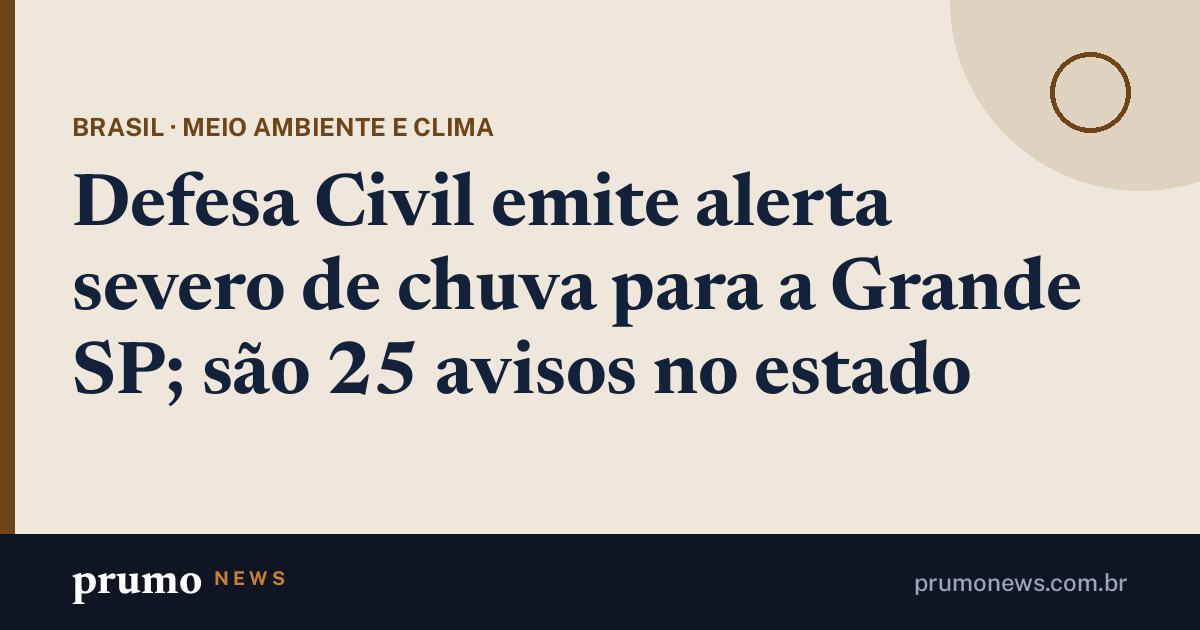
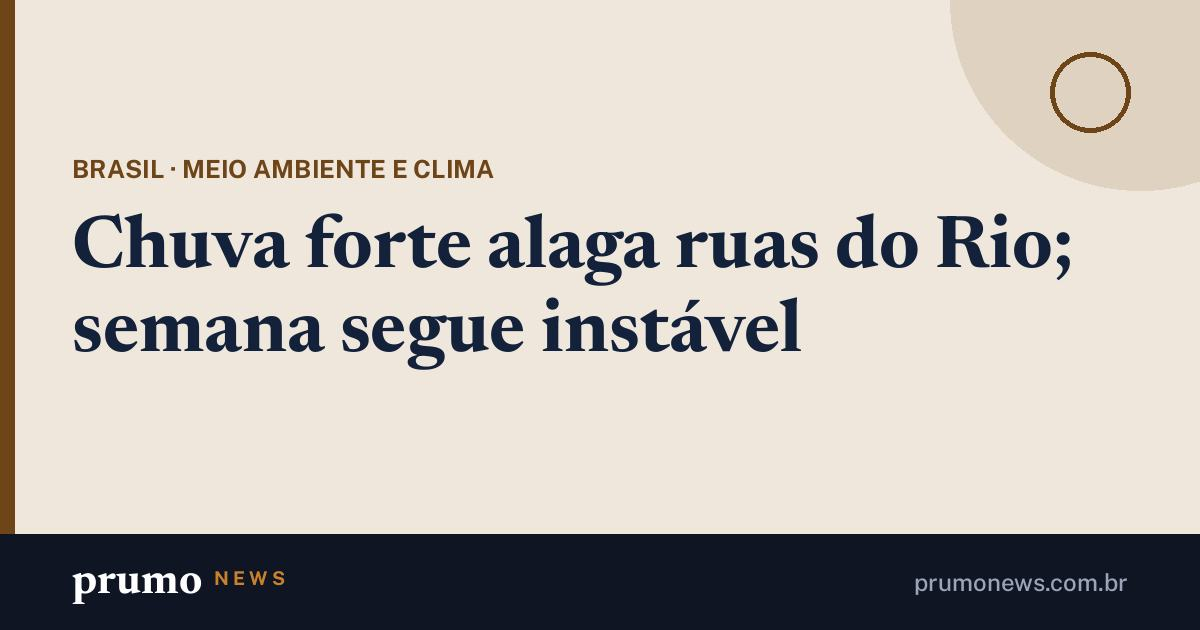
Páginas de compartilhamento 23/11 07h04

Changed region(s): [[0.0617, 0.181, 0.8942, 0.6333]]

diff --git a/m/bolsonaro-hospital-dores-abdominais.html b/m/bolsonaro-hospital-dores-abdominais.html
@@ -3,16 +3,16 @@
 <head>
 <meta charset="utf-8">
 <meta name="viewport" content="width=device-width, initial-scale=1">
-<title>Bolsonaro segue na UTI com quadro estável e sem previsão de alta · Prumo News</title>
-<meta name="description" content="No terceiro dia no Hospital DF Star, em Brasília, o ex-presidente está clinicamente estável, segundo o boletim médico de domingo (22).">
-<link rel="canonical" href="https://prumonews.com.br/m/bolsonaro-segue-na-uti-com-quadro-estavel-e-sem-previsao-de-alta.html">
+<title>Bolsonaro cumpre o quarto dia na UTI, estável e sem previsão de alta · Prumo News</title>
+<meta name="description" content="Internado desde sexta (20) com abdômen agudo obstrutivo, o ex-presidente faz exames diários e a equipe médica o mantém em observação.">
+<link rel="canonical" href="https://prumonews.com.br/m/bolsonaro-cumpre-o-quarto-dia-na-uti-estavel-e-sem-previsao-de-alta.html">
 <meta property="og:type" content="article">
 <meta property="og:site_name" content="Prumo News">
 <meta property="og:locale" content="pt_BR">
-<meta property="og:title" content="Bolsonaro segue na UTI com quadro estável e sem previsão de alta">
-<meta property="og:description" content="No terceiro dia no Hospital DF Star, em Brasília, o ex-presidente está clinicamente estável, segundo o boletim médico de domingo (22).">
-<meta property="og:url" content="https://prumonews.com.br/m/bolsonaro-segue-na-uti-com-quadro-estavel-e-sem-previsao-de-alta.html">
-<meta property="og:image" content="https://prumonews.com.br/m/og/bolsonaro-hospital-dores-abdominais.jpg?v=2f121e7ffa">
+<meta property="og:title" content="Bolsonaro cumpre o quarto dia na UTI, estável e sem previsão de alta">
+<meta property="og:description" content="Internado desde sexta (20) com abdômen agudo obstrutivo, o ex-presidente faz exames diários e a equipe médica o mantém em observação.">
+<meta property="og:url" content="https://prumonews.com.br/m/bolsonaro-cumpre-o-quarto-dia-na-uti-estavel-e-sem-previsao-de-alta.html">
+<meta property="og:image" content="https://prumonews.com.br/m/og/bolsonaro-hospital-dores-abdominais.jpg?v=792edbce66">
 <meta property="og:image:width" content="1200">
 <meta property="og:image:height" content="630">
 <meta name="twitter:card" content="summary_large_image">
@@ -20,5 +20,5 @@
 <script>location.replace("/#m=bolsonaro-hospital-dores-abdominais")</script>
 <style>body{margin:0;font:16px/1.5 system-ui,sans-serif;background:#0f1522;color:#e8ecf2;display:grid;place-items:center;min-height:100vh;padding:24px;box-sizing:border-box;text-align:center}a{color:#e6b673}</style>
 </head>
-<body><p><a href="/#m=bolsonaro-hospital-dores-abdominais">Bolsonaro segue na UTI com quadro estável e sem previsão de alta</a><br>Abrindo no Prumo News…</p></body>
+<body><p><a href="/#m=bolsonaro-hospital-dores-abdominais">Bolsonaro cumpre o quarto dia na UTI, estável e sem previsão de alta</a><br>Abrindo no Prumo News…</p></body>
 </html>

diff --git a/m/lula-janja-coordena-posse.html b/m/lula-janja-coordena-posse.html
@@ -3,20 +3,20 @@
 <head>
 <meta charset="utf-8">
 <meta name="viewport" content="width=device-width, initial-scale=1">
-<title>Lula confirma Janja na coordenação da posse, marcada para janeiro · Prumo News</title>
-<meta name="description" content="Lula confirmou, em transmissão com Janones, que a primeira-dama, Janja, vai coordenar a cerimônia de posse, prevista para janeiro.">
-<link rel="canonical" href="https://prumonews.com.br/m/lula-confirma-janja-na-coordenacao-da-posse-marcada-para-janeiro.html">
+<title>Posse de Lula em janeiro deve ter shows de BaianaSystem; Janja coordena · Prumo News</title>
+<meta name="description" content="Lula confirmou no sábado (21) que Janja coordena a cerimônia, prevista para janeiro; ele ainda vai tratar dos detalhes com Alcolumbre.">
+<link rel="canonical" href="https://prumonews.com.br/m/posse-de-lula-em-janeiro-deve-ter-shows-de-baianasystem-janja-coordena.html">
 <meta property="og:type" content="article">
 <meta property="og:site_name" content="Prumo News">
 <meta property="og:locale" content="pt_BR">
-<meta property="og:title" content="Lula confirma Janja na coordenação da posse, marcada para janeiro">
-<meta property="og:description" content="Lula confirmou, em transmissão com Janones, que a primeira-dama, Janja, vai coordenar a cerimônia de posse, prevista para janeiro.">
-<meta property="og:url" content="https://prumonews.com.br/m/lula-confirma-janja-na-coordenacao-da-posse-marcada-para-janeiro.html">
+<meta property="og:title" content="Posse de Lula em janeiro deve ter shows de BaianaSystem; Janja coordena">
+<meta property="og:description" content="Lula confirmou no sábado (21) que Janja coordena a cerimônia, prevista para janeiro; ele ainda vai tratar dos detalhes com Alcolumbre.">
+<meta property="og:url" content="https://prumonews.com.br/m/posse-de-lula-em-janeiro-deve-ter-shows-de-baianasystem-janja-coordena.html">
 <meta property="og:image" content="https://upload.wikimedia.org/wikipedia/commons/thumb/d/d2/Foto_oficial_de_Luiz_In%C3%A1cio_Lula_da_Silva_%28m%C3%A3o_pitoca%29.jpg/960px-Foto_oficial_de_Luiz_In%C3%A1cio_Lula_da_Silva_%28m%C3%A3o_pitoca%29.jpg">
 <meta name="twitter:card" content="summary_large_image">
 <meta name="theme-color" content="#0f1522">
 <script>location.replace("/#m=lula-janja-coordena-posse")</script>
 <style>body{margin:0;font:16px/1.5 system-ui,sans-serif;background:#0f1522;color:#e8ecf2;display:grid;place-items:center;min-height:100vh;padding:24px;box-sizing:border-box;text-align:center}a{color:#e6b673}</style>
 </head>
-<body><p><a href="/#m=lula-janja-coordena-posse">Lula confirma Janja na coordenação da posse, marcada para janeiro</a><br>Abrindo no Prumo News…</p></body>
+<body><p><a href="/#m=lula-janja-coordena-posse">Posse de Lula em janeiro deve ter shows de BaianaSystem; Janja coordena</a><br>Abrindo no Prumo News…</p></body>
 </html>

diff --git a/m/serie-b-38-rodada-final.html b/m/serie-b-38-rodada-final.html
@@ -3,16 +3,16 @@
 <head>
 <meta charset="utf-8">
 <meta name="viewport" content="width=device-width, initial-scale=1">
-<title>Criciúma vence o Fortaleza na ida dos playoffs da Série B; volta é no sábado (28) · Prumo News</title>
-<meta name="description" content="Criciúma abriu vantagem em casa; Atlético-GO x Vila Nova, em Goiânia, tem a volta na sexta (27), às 20h.">
-<link rel="canonical" href="https://prumonews.com.br/m/criciuma-vence-o-fortaleza-na-ida-dos-playoffs-da-serie-b-volta-e-no.html">
+<title>Criciúma vence o Fortaleza por 1 a 0 na ida dos playoffs da Série B · Prumo News</title>
+<meta name="description" content="Atlético-GO e Vila Nova empataram por 1 a 1; as voltas são na sexta (27) e no sábado (28), ambas às 20h.">
+<link rel="canonical" href="https://prumonews.com.br/m/criciuma-vence-o-fortaleza-por-1-a-0-na-ida-dos-playoffs-da-serie-b.html">
 <meta property="og:type" content="article">
 <meta property="og:site_name" content="Prumo News">
 <meta property="og:locale" content="pt_BR">
-<meta property="og:title" content="Criciúma vence o Fortaleza na ida dos playoffs da Série B; volta é no sábado (28)">
-<meta property="og:description" content="Criciúma abriu vantagem em casa; Atlético-GO x Vila Nova, em Goiânia, tem a volta na sexta (27), às 20h.">
-<meta property="og:url" content="https://prumonews.com.br/m/criciuma-vence-o-fortaleza-na-ida-dos-playoffs-da-serie-b-volta-e-no.html">
-<meta property="og:image" content="https://prumonews.com.br/m/og/serie-b-38-rodada-final.jpg?v=9f52eb90f7">
+<meta property="og:title" content="Criciúma vence o Fortaleza por 1 a 0 na ida dos playoffs da Série B">
+<meta property="og:description" content="Atlético-GO e Vila Nova empataram por 1 a 1; as voltas são na sexta (27) e no sábado (28), ambas às 20h.">
+<meta property="og:url" content="https://prumonews.com.br/m/criciuma-vence-o-fortaleza-por-1-a-0-na-ida-dos-playoffs-da-serie-b.html">
+<meta property="og:image" content="https://prumonews.com.br/m/og/serie-b-38-rodada-final.jpg?v=8d5130c60b">
 <meta property="og:image:width" content="1200">
 <meta property="og:image:height" content="630">
 <meta name="twitter:card" content="summary_large_image">
@@ -20,5 +20,5 @@
 <script>location.replace("/#m=serie-b-38-rodada-final")</script>
 <style>body{margin:0;font:16px/1.5 system-ui,sans-serif;background:#0f1522;color:#e8ecf2;display:grid;place-items:center;min-height:100vh;padding:24px;box-sizing:border-box;text-align:center}a{color:#e6b673}</style>
 </head>
-<body><p><a href="/#m=serie-b-38-rodada-final">Criciúma vence o Fortaleza na ida dos playoffs da Série B; volta é no sábado (28)</a><br>Abrindo no Prumo News…</p></body>
+<body><p><a href="/#m=serie-b-38-rodada-final">Criciúma vence o Fortaleza por 1 a 0 na ida dos playoffs da Série B</a><br>Abrindo no Prumo News…</p></body>
 </html>

diff --git a/m/marinho-presidencia-senado.html b/m/marinho-presidencia-senado.html
@@ -3,20 +3,20 @@
 <head>
 <meta charset="utf-8">
 <meta name="viewport" content="width=device-width, initial-scale=1">
-<title>Marinho disputa o Senado com Alcolumbre; PL tem 28 e precisa de 41 votos · Prumo News</title>
-<meta name="description" content="Tereza Cristina mantém a pré-candidatura e divide a direita; uma coluna de sábado (21) trata do que mudaria no STF se Marinho vencer.">
-<link rel="canonical" href="https://prumonews.com.br/m/marinho-disputa-o-senado-com-alcolumbre-pl-tem-28-e-precisa-de-41.html">
+<title>Alcolumbre soma 33 apoios e Marinho 32; 41 votos decidem o Senado · Prumo News</title>
+<meta name="description" content="Os números são de 5/11 e nenhum lado tem maioria; uma coluna de segunda (23) traz o placar que circula entre ministros do STF.">
+<link rel="canonical" href="https://prumonews.com.br/m/alcolumbre-soma-33-apoios-e-marinho-32-41-votos-decidem-o-senado.html">
 <meta property="og:type" content="article">
 <meta property="og:site_name" content="Prumo News">
 <meta property="og:locale" content="pt_BR">
-<meta property="og:title" content="Marinho disputa o Senado com Alcolumbre; PL tem 28 e precisa de 41 votos">
-<meta property="og:description" content="Tereza Cristina mantém a pré-candidatura e divide a direita; uma coluna de sábado (21) trata do que mudaria no STF se Marinho vencer.">
-<meta property="og:url" content="https://prumonews.com.br/m/marinho-disputa-o-senado-com-alcolumbre-pl-tem-28-e-precisa-de-41.html">
+<meta property="og:title" content="Alcolumbre soma 33 apoios e Marinho 32; 41 votos decidem o Senado">
+<meta property="og:description" content="Os números são de 5/11 e nenhum lado tem maioria; uma coluna de segunda (23) traz o placar que circula entre ministros do STF.">
+<meta property="og:url" content="https://prumonews.com.br/m/alcolumbre-soma-33-apoios-e-marinho-32-41-votos-decidem-o-senado.html">
 <meta property="og:image" content="https://upload.wikimedia.org/wikipedia/commons/thumb/8/87/Douglas_Tavolaro_Rodrigo_Maia_Davi_Alcolumbre_%2849645040748%29.jpg/960px-Douglas_Tavolaro_Rodrigo_Maia_Davi_Alcolumbre_%2849645040748%29.jpg">
 <meta name="twitter:card" content="summary_large_image">
 <meta name="theme-color" content="#0f1522">
 <script>location.replace("/#m=marinho-presidencia-senado")</script>
 <style>body{margin:0;font:16px/1.5 system-ui,sans-serif;background:#0f1522;color:#e8ecf2;display:grid;place-items:center;min-height:100vh;padding:24px;box-sizing:border-box;text-align:center}a{color:#e6b673}</style>
 </head>
-<body><p><a href="/#m=marinho-presidencia-senado">Marinho disputa o Senado com Alcolumbre; PL tem 28 e precisa de 41 votos</a><br>Abrindo no Prumo News…</p></body>
+<body><p><a href="/#m=marinho-presidencia-senado">Alcolumbre soma 33 apoios e Marinho 32; 41 votos decidem o Senado</a><br>Abrindo no Prumo News…</p></body>
 </html>

diff --git a/m/ajuste-fiscal-lula-4.html b/m/ajuste-fiscal-lula-4.html
@@ -3,16 +3,16 @@
 <head>
 <meta charset="utf-8">
 <meta name="viewport" content="width=device-width, initial-scale=1">
-<title>Câmara analisa o ajuste fiscal na segunda (23); centrão ajuda · Prumo News</title>
-<meta name="description" content="A sessão extraordinária é na noite de segunda (23); o governo precisa de 257 votos e o relator quer manter o texto aprovado pelo Senado.">
-<link rel="canonical" href="https://prumonews.com.br/m/camara-analisa-o-ajuste-fiscal-na-segunda-23-centrao-ajuda.html">
+<title>Câmara vota o ajuste fiscal na noite de segunda (23) · Prumo News</title>
+<meta name="description" content="O governo precisa de 257 votos; o relator mantém o texto do Senado, com economia de até R$ 50 bi em 2027, e sem mudanças o projeto vai à sanção.">
+<link rel="canonical" href="https://prumonews.com.br/m/camara-vota-o-ajuste-fiscal-na-noite-de-segunda-23.html">
 <meta property="og:type" content="article">
 <meta property="og:site_name" content="Prumo News">
 <meta property="og:locale" content="pt_BR">
-<meta property="og:title" content="Câmara analisa o ajuste fiscal na segunda (23); centrão ajuda">
-<meta property="og:description" content="A sessão extraordinária é na noite de segunda (23); o governo precisa de 257 votos e o relator quer manter o texto aprovado pelo Senado.">
-<meta property="og:url" content="https://prumonews.com.br/m/camara-analisa-o-ajuste-fiscal-na-segunda-23-centrao-ajuda.html">
-<meta property="og:image" content="https://prumonews.com.br/m/og/ajuste-fiscal-lula-4.jpg?v=1ee5b3d416">
+<meta property="og:title" content="Câmara vota o ajuste fiscal na noite de segunda (23)">
+<meta property="og:description" content="O governo precisa de 257 votos; o relator mantém o texto do Senado, com economia de até R$ 50 bi em 2027, e sem mudanças o projeto vai à sanção.">
+<meta property="og:url" content="https://prumonews.com.br/m/camara-vota-o-ajuste-fiscal-na-noite-de-segunda-23.html">
+<meta property="og:image" content="https://prumonews.com.br/m/og/ajuste-fiscal-lula-4.jpg?v=66f098b992">
 <meta property="og:image:width" content="1200">
 <meta property="og:image:height" content="630">
 <meta name="twitter:card" content="summary_large_image">
@@ -20,5 +20,5 @@
 <script>location.replace("/#m=ajuste-fiscal-lula-4")</script>
 <style>body{margin:0;font:16px/1.5 system-ui,sans-serif;background:#0f1522;color:#e8ecf2;display:grid;place-items:center;min-height:100vh;padding:24px;box-sizing:border-box;text-align:center}a{color:#e6b673}</style>
 </head>
-<body><p><a href="/#m=ajuste-fiscal-lula-4">Câmara analisa o ajuste fiscal na segunda (23); centrão ajuda</a><br>Abrindo no Prumo News…</p></body>
+<body><p><a href="/#m=ajuste-fiscal-lula-4">Câmara vota o ajuste fiscal na noite de segunda (23)</a><br>Abrindo no Prumo News…</p></body>
 </html>

diff --git a/m/defesa-civil-alerta-chuva-grande-sp.html b/m/defesa-civil-alerta-chuva-grande-sp.html
@@ -3,16 +3,16 @@
 <head>
 <meta charset="utf-8">
 <meta name="viewport" content="width=device-width, initial-scale=1">
-<title>Defesa Civil emite alerta severo de chuva para a Grande SP; são 25 avisos no estado · Prumo News</title>
-<meta name="description" content="O aviso prevê raios, vento e granizo na capital e em cidades vizinhas.">
-<link rel="canonical" href="https://prumonews.com.br/m/defesa-civil-emite-alerta-severo-de-chuva-para-a-grande-sp-sao-25.html">
+<title>Chuva forte alaga ruas do Rio; semana segue instável · Prumo News</title>
+<meta name="description" content="A previsão é de novas pancadas à tarde e semana instável; a Grande SP tem alerta severo de raios, vento e granizo.">
+<link rel="canonical" href="https://prumonews.com.br/m/chuva-forte-alaga-ruas-do-rio-semana-segue-instavel.html">
 <meta property="og:type" content="article">
 <meta property="og:site_name" content="Prumo News">
 <meta property="og:locale" content="pt_BR">
-<meta property="og:title" content="Defesa Civil emite alerta severo de chuva para a Grande SP; são 25 avisos no estado">
-<meta property="og:description" content="O aviso prevê raios, vento e granizo na capital e em cidades vizinhas.">
-<meta property="og:url" content="https://prumonews.com.br/m/defesa-civil-emite-alerta-severo-de-chuva-para-a-grande-sp-sao-25.html">
-<meta property="og:image" content="https://prumonews.com.br/m/og/defesa-civil-alerta-chuva-grande-sp.jpg?v=c35b5fe7a6">
+<meta property="og:title" content="Chuva forte alaga ruas do Rio; semana segue instável">
+<meta property="og:description" content="A previsão é de novas pancadas à tarde e semana instável; a Grande SP tem alerta severo de raios, vento e granizo.">
+<meta property="og:url" content="https://prumonews.com.br/m/chuva-forte-alaga-ruas-do-rio-semana-segue-instavel.html">
+<meta property="og:image" content="https://prumonews.com.br/m/og/defesa-civil-alerta-chuva-grande-sp.jpg?v=989f657246">
 <meta property="og:image:width" content="1200">
 <meta property="og:image:height" content="630">
 <meta name="twitter:card" content="summary_large_image">
@@ -20,5 +20,5 @@
 <script>location.replace("/#m=defesa-civil-alerta-chuva-grande-sp")</script>
 <style>body{margin:0;font:16px/1.5 system-ui,sans-serif;background:#0f1522;color:#e8ecf2;display:grid;place-items:center;min-height:100vh;padding:24px;box-sizing:border-box;text-align:center}a{color:#e6b673}</style>
 </head>
-<body><p><a href="/#m=defesa-civil-alerta-chuva-grande-sp">Defesa Civil emite alerta severo de chuva para a Grande SP; são 25 avisos no estado</a><br>Abrindo no Prumo News…</p></body>
+<body><p><a href="/#m=defesa-civil-alerta-chuva-grande-sp">Chuva forte alaga ruas do Rio; semana segue instável</a><br>Abrindo no Prumo News…</p></body>
 </html>

diff --git a/m/ucrania-drone-predio-kiev-desaparecidos.html b/m/ucrania-drone-predio-kiev-desaparecidos.html
@@ -3,20 +3,20 @@
 <head>
 <meta charset="utf-8">
 <meta name="viewport" content="width=device-width, initial-scale=1">
-<title>Drone russo atinge prédio perto de Kiev; 14 estão desaparecidos · Prumo News</title>
-<meta name="description" content="Zelenski diz que ao menos 14 pessoas estão desaparecidas após o ataque a um prédio na região da capital.">
-<link rel="canonical" href="https://prumonews.com.br/m/drone-russo-atinge-predio-perto-de-kiev-14-estao-desaparecidos.html">
+<title>Ataque russo a prédio na Ucrânia deixa 11 mortos · Prumo News</title>
+<meta name="description" content="Um menino e uma idosa foram resgatados; no domingo (22), Zelenski falava em ao menos 14 desaparecidos na região de Kiev.">
+<link rel="canonical" href="https://prumonews.com.br/m/ataque-russo-a-predio-na-ucrania-deixa-11-mortos.html">
 <meta property="og:type" content="article">
 <meta property="og:site_name" content="Prumo News">
 <meta property="og:locale" content="pt_BR">
-<meta property="og:title" content="Drone russo atinge prédio perto de Kiev; 14 estão desaparecidos">
-<meta property="og:description" content="Zelenski diz que ao menos 14 pessoas estão desaparecidas após o ataque a um prédio na região da capital.">
-<meta property="og:url" content="https://prumonews.com.br/m/drone-russo-atinge-predio-perto-de-kiev-14-estao-desaparecidos.html">
+<meta property="og:title" content="Ataque russo a prédio na Ucrânia deixa 11 mortos">
+<meta property="og:description" content="Um menino e uma idosa foram resgatados; no domingo (22), Zelenski falava em ao menos 14 desaparecidos na região de Kiev.">
+<meta property="og:url" content="https://prumonews.com.br/m/ataque-russo-a-predio-na-ucrania-deixa-11-mortos.html">
 <meta property="og:image" content="https://upload.wikimedia.org/wikipedia/commons/thumb/f/f2/Maidan_Nezalezhnosti%2C_Kyiv_%2828290034577%29.jpg/960px-Maidan_Nezalezhnosti%2C_Kyiv_%2828290034577%29.jpg">
 <meta name="twitter:card" content="summary_large_image">
 <meta name="theme-color" content="#0f1522">
 <script>location.replace("/#m=ucrania-drone-predio-kiev-desaparecidos")</script>
 <style>body{margin:0;font:16px/1.5 system-ui,sans-serif;background:#0f1522;color:#e8ecf2;display:grid;place-items:center;min-height:100vh;padding:24px;box-sizing:border-box;text-align:center}a{color:#e6b673}</style>
 </head>
-<body><p><a href="/#m=ucrania-drone-predio-kiev-desaparecidos">Drone russo atinge prédio perto de Kiev; 14 estão desaparecidos</a><br>Abrindo no Prumo News…</p></body>
+<body><p><a href="/#m=ucrania-drone-predio-kiev-desaparecidos">Ataque russo a prédio na Ucrânia deixa 11 mortos</a><br>Abrindo no Prumo News…</p></body>
 </html>

diff --git a/m/posse-de-lula-em-janeiro-deve-ter-shows-de-baianasystem-janja-coordena.html b/m/posse-de-lula-em-janeiro-deve-ter-shows-de-baianasystem-janja-coordena.html
@@ -1,0 +1,22 @@
+<!doctype html>
+<html lang="pt-BR">
+<head>
+<meta charset="utf-8">
+<meta name="viewport" content="width=device-width, initial-scale=1">
+<title>Posse de Lula em janeiro deve ter shows de BaianaSystem; Janja coordena · Prumo News</title>
+<meta name="description" content="Lula confirmou no sábado (21) que Janja coordena a cerimônia, prevista para janeiro; ele ainda vai tratar dos detalhes com Alcolumbre.">
+<link rel="canonical" href="https://prumonews.com.br/m/posse-de-lula-em-janeiro-deve-ter-shows-de-baianasystem-janja-coordena.html">
+<meta property="og:type" content="article">
+<meta property="og:site_name" content="Prumo News">
+<meta property="og:locale" content="pt_BR">
+<meta property="og:title" content="Posse de Lula em janeiro deve ter shows de BaianaSystem; Janja coordena">
+<meta property="og:description" content="Lula confirmou no sábado (21) que Janja coordena a cerimônia, prevista para janeiro; ele ainda vai tratar dos detalhes com Alcolumbre.">
+<meta property="og:url" content="https://prumonews.com.br/m/posse-de-lula-em-janeiro-deve-ter-shows-de-baianasystem-janja-coordena.html">
+<meta property="og:image" content="https://upload.wikimedia.org/wikipedia/commons/thumb/d/d2/Foto_oficial_de_Luiz_In%C3%A1cio_Lula_da_Silva_%28m%C3%A3o_pitoca%29.jpg/960px-Foto_oficial_de_Luiz_In%C3%A1cio_Lula_da_Silva_%28m%C3%A3o_pitoca%29.jpg">
+<meta name="twitter:card" content="summary_large_image">
+<meta name="theme-color" content="#0f1522">
+<script>location.replace("/#m=lula-janja-coordena-posse")</script>
+<style>body{margin:0;font:16px/1.5 system-ui,sans-serif;background:#0f1522;color:#e8ecf2;display:grid;place-items:center;min-height:100vh;padding:24px;box-sizing:border-box;text-align:center}a{color:#e6b673}</style>
+</head>
+<body><p><a href="/#m=lula-janja-coordena-posse">Posse de Lula em janeiro deve ter shows de BaianaSystem; Janja coordena</a><br>Abrindo no Prumo News…</p></body>
+</html>

diff --git a/m/bolsonaro-cumpre-o-quarto-dia-na-uti-estavel-e-sem-previsao-de-alta.html b/m/bolsonaro-cumpre-o-quarto-dia-na-uti-estavel-e-sem-previsao-de-alta.html
@@ -1,0 +1,24 @@
+<!doctype html>
+<html lang="pt-BR">
+<head>
+<meta charset="utf-8">
+<meta name="viewport" content="width=device-width, initial-scale=1">
+<title>Bolsonaro cumpre o quarto dia na UTI, estável e sem previsão de alta · Prumo News</title>
+<meta name="description" content="Internado desde sexta (20) com abdômen agudo obstrutivo, o ex-presidente faz exames diários e a equipe médica o mantém em observação.">
+<link rel="canonical" href="https://prumonews.com.br/m/bolsonaro-cumpre-o-quarto-dia-na-uti-estavel-e-sem-previsao-de-alta.html">
+<meta property="og:type" content="article">
+<meta property="og:site_name" content="Prumo News">
+<meta property="og:locale" content="pt_BR">
+<meta property="og:title" content="Bolsonaro cumpre o quarto dia na UTI, estável e sem previsão de alta">
+<meta property="og:description" content="Internado desde sexta (20) com abdômen agudo obstrutivo, o ex-presidente faz exames diários e a equipe médica o mantém em observação.">
+<meta property="og:url" content="https://prumonews.com.br/m/bolsonaro-cumpre-o-quarto-dia-na-uti-estavel-e-sem-previsao-de-alta.html">
+<meta property="og:image" content="https://prumonews.com.br/m/og/bolsonaro-hospital-dores-abdominais.jpg?v=792edbce66">
+<meta property="og:image:width" content="1200">
+<meta property="og:image:height" content="630">
+<meta name="twitter:card" content="summary_large_image">
+<meta name="theme-color" content="#0f1522">
+<script>location.replace("/#m=bolsonaro-hospital-dores-abdominais")</script>
+<style>body{margin:0;font:16px/1.5 system-ui,sans-serif;background:#0f1522;color:#e8ecf2;display:grid;place-items:center;min-height:100vh;padding:24px;box-sizing:border-box;text-align:center}a{color:#e6b673}</style>
+</head>
+<body><p><a href="/#m=bolsonaro-hospital-dores-abdominais">Bolsonaro cumpre o quarto dia na UTI, estável e sem previsão de alta</a><br>Abrindo no Prumo News…</p></body>
+</html>

diff --git a/m/alcolumbre-soma-33-apoios-e-marinho-32-41-votos-decidem-o-senado.html b/m/alcolumbre-soma-33-apoios-e-marinho-32-41-votos-decidem-o-senado.html
@@ -1,0 +1,22 @@
+<!doctype html>
+<html lang="pt-BR">
+<head>
+<meta charset="utf-8">
+<meta name="viewport" content="width=device-width, initial-scale=1">
+<title>Alcolumbre soma 33 apoios e Marinho 32; 41 votos decidem o Senado · Prumo News</title>
+<meta name="description" content="Os números são de 5/11 e nenhum lado tem maioria; uma coluna de segunda (23) traz o placar que circula entre ministros do STF.">
+<link rel="canonical" href="https://prumonews.com.br/m/alcolumbre-soma-33-apoios-e-marinho-32-41-votos-decidem-o-senado.html">
+<meta property="og:type" content="article">
+<meta property="og:site_name" content="Prumo News">
+<meta property="og:locale" content="pt_BR">
+<meta property="og:title" content="Alcolumbre soma 33 apoios e Marinho 32; 41 votos decidem o Senado">
+<meta property="og:description" content="Os números são de 5/11 e nenhum lado tem maioria; uma coluna de segunda (23) traz o placar que circula entre ministros do STF.">
+<meta property="og:url" content="https://prumonews.com.br/m/alcolumbre-soma-33-apoios-e-marinho-32-41-votos-decidem-o-senado.html">
+<meta property="og:image" content="https://upload.wikimedia.org/wikipedia/commons/thumb/8/87/Douglas_Tavolaro_Rodrigo_Maia_Davi_Alcolumbre_%2849645040748%29.jpg/960px-Douglas_Tavolaro_Rodrigo_Maia_Davi_Alcolumbre_%2849645040748%29.jpg">
+<meta name="twitter:card" content="summary_large_image">
+<meta name="theme-color" content="#0f1522">
+<script>location.replace("/#m=marinho-presidencia-senado")</script>
+<style>body{margin:0;font:16px/1.5 system-ui,sans-serif;background:#0f1522;color:#e8ecf2;display:grid;place-items:center;min-height:100vh;padding:24px;box-sizing:border-box;text-align:center}a{color:#e6b673}</style>
+</head>
+<body><p><a href="/#m=marinho-presidencia-senado">Alcolumbre soma 33 apoios e Marinho 32; 41 votos decidem o Senado</a><br>Abrindo no Prumo News…</p></body>
+</html>

diff --git a/m/eua-exercito-explosivos-iowa.html b/m/eua-exercito-explosivos-iowa.html
@@ -1,0 +1,24 @@
+<!doctype html>
+<html lang="pt-BR">
+<head>
+<meta charset="utf-8">
+<meta name="viewport" content="width=device-width, initial-scale=1">
+<title>Exército americano planeja detonar 5 t de explosivos em Iowa · Prumo News</title>
+<meta name="description" content="Ambientalistas foram à Justiça contra a detonação de azida de chumbo; o material, degradado, foi julgado arriscado demais para ser transportado.">
+<link rel="canonical" href="https://prumonews.com.br/m/exercito-americano-planeja-detonar-5-t-de-explosivos-em-iowa.html">
+<meta property="og:type" content="article">
+<meta property="og:site_name" content="Prumo News">
+<meta property="og:locale" content="pt_BR">
+<meta property="og:title" content="Exército americano planeja detonar 5 t de explosivos em Iowa">
+<meta property="og:description" content="Ambientalistas foram à Justiça contra a detonação de azida de chumbo; o material, degradado, foi julgado arriscado demais para ser transportado.">
+<meta property="og:url" content="https://prumonews.com.br/m/exercito-americano-planeja-detonar-5-t-de-explosivos-em-iowa.html">
+<meta property="og:image" content="https://prumonews.com.br/m/og/eua-exercito-explosivos-iowa.jpg?v=531ffbb013">
+<meta property="og:image:width" content="1200">
+<meta property="og:image:height" content="630">
+<meta name="twitter:card" content="summary_large_image">
+<meta name="theme-color" content="#0f1522">
+<script>location.replace("/#m=eua-exercito-explosivos-iowa")</script>
+<style>body{margin:0;font:16px/1.5 system-ui,sans-serif;background:#0f1522;color:#e8ecf2;display:grid;place-items:center;min-height:100vh;padding:24px;box-sizing:border-box;text-align:center}a{color:#e6b673}</style>
+</head>
+<body><p><a href="/#m=eua-exercito-explosivos-iowa">Exército americano planeja detonar 5 t de explosivos em Iowa</a><br>Abrindo no Prumo News…</p></body>
+</html>

diff --git a/m/exercito-americano-planeja-detonar-5-t-de-explosivos-em-iowa.html b/m/exercito-americano-planeja-detonar-5-t-de-explosivos-em-iowa.html
@@ -1,0 +1,24 @@
+<!doctype html>
+<html lang="pt-BR">
+<head>
+<meta charset="utf-8">
+<meta name="viewport" content="width=device-width, initial-scale=1">
+<title>Exército americano planeja detonar 5 t de explosivos em Iowa · Prumo News</title>
+<meta name="description" content="Ambientalistas foram à Justiça contra a detonação de azida de chumbo; o material, degradado, foi julgado arriscado demais para ser transportado.">
+<link rel="canonical" href="https://prumonews.com.br/m/exercito-americano-planeja-detonar-5-t-de-explosivos-em-iowa.html">
+<meta property="og:type" content="article">
+<meta property="og:site_name" content="Prumo News">
+<meta property="og:locale" content="pt_BR">
+<meta property="og:title" content="Exército americano planeja detonar 5 t de explosivos em Iowa">
+<meta property="og:description" content="Ambientalistas foram à Justiça contra a detonação de azida de chumbo; o material, degradado, foi julgado arriscado demais para ser transportado.">
+<meta property="og:url" content="https://prumonews.com.br/m/exercito-americano-planeja-detonar-5-t-de-explosivos-em-iowa.html">
+<meta property="og:image" content="https://prumonews.com.br/m/og/eua-exercito-explosivos-iowa.jpg?v=531ffbb013">
+<meta property="og:image:width" content="1200">
+<meta property="og:image:height" content="630">
+<meta name="twitter:card" content="summary_large_image">
+<meta name="theme-color" content="#0f1522">
+<script>location.replace("/#m=eua-exercito-explosivos-iowa")</script>
+<style>body{margin:0;font:16px/1.5 system-ui,sans-serif;background:#0f1522;color:#e8ecf2;display:grid;place-items:center;min-height:100vh;padding:24px;box-sizing:border-box;text-align:center}a{color:#e6b673}</style>
+</head>
+<body><p><a href="/#m=eua-exercito-explosivos-iowa">Exército americano planeja detonar 5 t de explosivos em Iowa</a><br>Abrindo no Prumo News…</p></body>
+</html>
